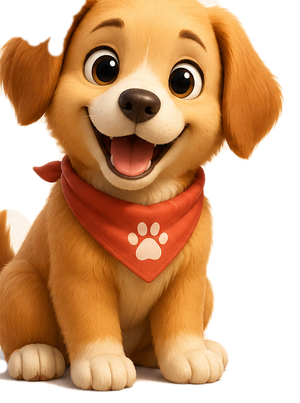
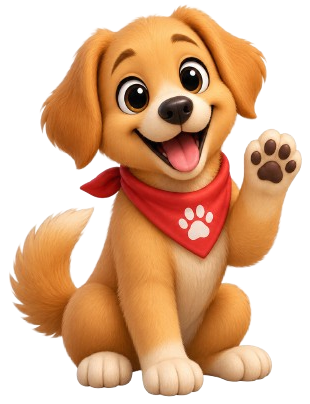
Fix kick-ball tracking and replace pet art with transparent Buddy/Mittens cutouts

diff --git a/src/games/KickBall/KickBallGame.tsx b/src/games/KickBall/KickBallGame.tsx
@@ -8,9 +8,18 @@ import { SoccerBall } from "../../assets/gameArt/GameArt";
 import "../games-common.css";
 import "./KickBallGame.css";
 
-const KICK_Y_THRESHOLD = 0.55; // upper half of frame = "leg raised"
 const KICK_TOLERANCE_X = 0.22;
 const KICK_COOLDOWN_MS = 700;
+// Kick detection is based on how far the leg point has risen within a
+// short rolling window, not on crossing some fixed absolute Y value.
+// An absolute threshold assumes the tracked landmark (ankle) always
+// rests near the bottom of frame — but MediaPipe sometimes falls back
+// to the knee (see MotionTrackingService), which rests much higher up,
+// and every user sits at a different distance from their camera. A
+// "did it move up fast enough" check works the same regardless of
+// which landmark or framing is in play.
+const RISE_WINDOW_MS = 350;
+const MIN_RISE = 0.07; // normalized units (~7% of frame height) within the window
 const GOAL_ZONES = [0.25, 0.5, 0.75];
 const GOAL_MESSAGES = ["GOAL! Amazing kick! ⚽", "Woohoo! Nice shot!", "You've got this!"];
 const MISS_MESSAGES = ["Just wide — try again!", "So close!", "Almost there!"];
@@ -35,7 +44,7 @@ export function KickBallGame({ frame, demoMode, durationSeconds, petId, onComple
   const [feedback, setFeedback] = useState<"goal" | "miss" | null>(null);
   const [ballPos, setBallPos] = useState({ x: 0.5, y: REST_Y });
   const [flying, setFlying] = useState(false);
-  const prevY = useRef<number | null>(null);
+  const history = useRef<{ y: number; t: number }[]>([]);
   const lastKickAt = useRef(0);
   const finishedRef = useRef(false);
   const flyingRef = useRef(false);
@@ -61,12 +70,20 @@ export function KickBallGame({ frame, demoMode, durationSeconds, petId, onComple
       setBallPos((p) => ({ x: p.x + (dribbleX - p.x) * 0.25, y: REST_Y }));
     }
 
-    const wasBelow = prevY.current !== null && prevY.current > KICK_Y_THRESHOLD;
-    const isAbove = ankle.y <= KICK_Y_THRESHOLD;
-    const cooledDown = Date.now() - lastKickAt.current > KICK_COOLDOWN_MS;
+    const now = Date.now();
+    history.current.push({ y: ankle.y, t: now });
+    // Keep only the recent window; a couple of extra entries past the
+    // cutoff are fine since we just need the oldest-in-window sample.
+    while (history.current.length > 1 && now - history.current[0].t > RISE_WINDOW_MS) {
+      history.current.shift();
+    }
+    const oldest = history.current[0];
+    const rise = oldest ? oldest.y - ankle.y : 0; // positive = moved up
+    const cooledDown = now - lastKickAt.current > KICK_COOLDOWN_MS;
 
-    if (wasBelow && isAbove && cooledDown && !flyingRef.current) {
-      lastKickAt.current = Date.now();
+    if (rise >= MIN_RISE && cooledDown && !flyingRef.current) {
+      history.current = [];
+      lastKickAt.current = now;
       const kickedFromX = ballPos.x;
       const scored = Math.abs(kickedFromX - goalX) <= KICK_TOLERANCE_X;
       setAttempts((a) => a + 1);
@@ -93,7 +110,6 @@ export function KickBallGame({ frame, demoMode, durationSeconds, petId, onComple
       }, FLIGHT_MS);
       setTimeout(() => setFeedback(null), 500);
     }
-    prevY.current = ankle.y;
     // eslint-disable-next-line react-hooks/exhaustive-deps
   }, [frame]);
 

diff --git a/src/App.css b/src/App.css
@@ -1,0 +1,184 @@
+.counter {
+  font-size: 16px;
+  padding: 5px 10px;
+  border-radius: 5px;
+  color: var(--accent);
+  background: var(--accent-bg);
+  border: 2px solid transparent;
+  transition: border-color 0.3s;
+  margin-bottom: 24px;
+
+  &:hover {
+    border-color: var(--accent-border);
+  }
+  &:focus-visible {
+    outline: 2px solid var(--accent);
+    outline-offset: 2px;
+  }
+}
+
+.hero {
+  position: relative;
+
+  .base,
+  .framework,
+  .vite {
+    inset-inline: 0;
+    margin: 0 auto;
+  }
+
+  .base {
+    width: 170px;
+    position: relative;
+    z-index: 0;
+  }
+
+  .framework,
+  .vite {
+    position: absolute;
+  }
+
+  .framework {
+    z-index: 1;
+    top: 34px;
+    height: 28px;
+    transform: perspective(2000px) rotateZ(300deg) rotateX(44deg) rotateY(39deg)
+      scale(1.4);
+  }
+
+  .vite {
+    z-index: 0;
+    top: 107px;
+    height: 26px;
+    width: auto;
+    transform: perspective(2000px) rotateZ(300deg) rotateX(40deg) rotateY(39deg)
+      scale(0.8);
+  }
+}
+
+#center {
+  display: flex;
+  flex-direction: column;
+  gap: 25px;
+  place-content: center;
+  place-items: center;
+  flex-grow: 1;
+
+  @media (max-width: 1024px) {
+    padding: 32px 20px 24px;
+    gap: 18px;
+  }
+}
+
+#next-steps {
+  display: flex;
+  border-top: 1px solid var(--border);
+  text-align: left;
+
+  & > div {
+    flex: 1 1 0;
+    padding: 32px;
+    @media (max-width: 1024px) {
+      padding: 24px 20px;
+    }
+  }
+
+  .icon {
+    margin-bottom: 16px;
+    width: 22px;
+    height: 22px;
+  }
+
+  @media (max-width: 1024px) {
+    flex-direction: column;
+    text-align: center;
+  }
+}
+
+#docs {
+  border-right: 1px solid var(--border);
+
+  @media (max-width: 1024px) {
+    border-right: none;
+    border-bottom: 1px solid var(--border);
+  }
+}
+
+#next-steps ul {
+  list-style: none;
+  padding: 0;
+  display: flex;
+  gap: 8px;
+  margin: 32px 0 0;
+
+  .logo {
+    height: 18px;
+  }
+
+  a {
+    color: var(--text-h);
+    font-size: 16px;
+    border-radius: 6px;
+    background: var(--social-bg);
+    display: flex;
+    padding: 6px 12px;
+    align-items: center;
+    gap: 8px;
+    text-decoration: none;
+    transition: box-shadow 0.3s;
+
+    &:hover {
+      box-shadow: var(--shadow);
+    }
+    .button-icon {
+      height: 18px;
+      width: 18px;
+    }
+  }
+
+  @media (max-width: 1024px) {
+    margin-top: 20px;
+    flex-wrap: wrap;
+    justify-content: center;
+
+    li {
+      flex: 1 1 calc(50% - 8px);
+    }
+
+    a {
+      width: 100%;
+      justify-content: center;
+      box-sizing: border-box;
+    }
+  }
+}
+
+#spacer {
+  height: 88px;
+  border-top: 1px solid var(--border);
+  @media (max-width: 1024px) {
+    height: 48px;
+  }
+}
+
+.ticks {
+  position: relative;
+  width: 100%;
+
+  &::before,
+  &::after {
+    content: '';
+    position: absolute;
+    top: -4.5px;
+    border: 5px solid transparent;
+  }
+
+  &::before {
+    left: 0;
+    border-left-color: var(--border);
+  }
+  &::after {
+    right: 0;
+    border-right-color: var(--border);
+  }
+}

diff --git a/src/index.css b/src/index.css
@@ -1,0 +1,111 @@
+:root {
+  --text: #6b6375;
+  --text-h: #08060d;
+  --bg: #fff;
+  --border: #e5e4e7;
+  --code-bg: #f4f3ec;
+  --accent: #aa3bff;
+  --accent-bg: rgba(170, 59, 255, 0.1);
+  --accent-border: rgba(170, 59, 255, 0.5);
+  --social-bg: rgba(244, 243, 236, 0.5);
+  --shadow:
+    rgba(0, 0, 0, 0.1) 0 10px 15px -3px, rgba(0, 0, 0, 0.05) 0 4px 6px -2px;
+
+  --sans: system-ui, 'Segoe UI', Roboto, sans-serif;
+  --heading: system-ui, 'Segoe UI', Roboto, sans-serif;
+  --mono: ui-monospace, Consolas, monospace;
+
+  font: 18px/145% var(--sans);
+  letter-spacing: 0.18px;
+  color-scheme: light dark;
+  color: var(--text);
+  background: var(--bg);
+  font-synthesis: none;
+  text-rendering: optimizeLegibility;
+  -webkit-font-smoothing: antialiased;
+  -moz-osx-font-smoothing: grayscale;
+
+  @media (max-width: 1024px) {
+    font-size: 16px;
+  }
+}
+
+@media (prefers-color-scheme: dark) {
+  :root {
+    --text: #9ca3af;
+    --text-h: #f3f4f6;
+    --bg: #16171d;
+    --border: #2e303a;
+    --code-bg: #1f2028;
+    --accent: #c084fc;
+    --accent-bg: rgba(192, 132, 252, 0.15);
+    --accent-border: rgba(192, 132, 252, 0.5);
+    --social-bg: rgba(47, 48, 58, 0.5);
+    --shadow:
+      rgba(0, 0, 0, 0.4) 0 10px 15px -3px, rgba(0, 0, 0, 0.25) 0 4px 6px -2px;
+  }
+
+  #social .button-icon {
+    filter: invert(1) brightness(2);
+  }
+}
+
+#root {
+  width: 1126px;
+  max-width: 100%;
+  margin: 0 auto;
+  text-align: center;
+  border-inline: 1px solid var(--border);
+  min-height: 100svh;
+  display: flex;
+  flex-direction: column;
+  box-sizing: border-box;
+}
+
+body {
+  margin: 0;
+}
+
+h1,
+h2 {
+  font-family: var(--heading);
+  font-weight: 500;
+  color: var(--text-h);
+}
+
+h1 {
+  font-size: 56px;
+  letter-spacing: -1.68px;
+  margin: 32px 0;
+  @media (max-width: 1024px) {
+    font-size: 36px;
+    margin: 20px 0;
+  }
+}
+h2 {
+  font-size: 24px;
+  line-height: 118%;
+  letter-spacing: -0.24px;
+  margin: 0 0 8px;
+  @media (max-width: 1024px) {
+    font-size: 20px;
+  }
+}
+p {
+  margin: 0;
+}
+
+code,
+.counter {
+  font-family: var(--mono);
+  display: inline-flex;
+  border-radius: 4px;
+  color: var(--text-h);
+}
+
+code {
+  font-size: 15px;
+  line-height: 135%;
+  padding: 4px 8px;
+  background: var(--code-bg);
+}

diff --git a/src/services/motionTracking/MotionTrackingService.ts b/src/services/motionTracking/MotionTrackingService.ts
@@ -147,8 +147,18 @@ export class MotionTrackingService {
       const result: PoseLandmarkerResult = this.poseLandmarker.detectForVideo(video, now);
       const pose = result.landmarks?.[0];
       if (pose) {
-        // 27 = left ankle, 28 = right ankle (MediaPipe Pose topology).
-        frame.ankles = [pose[27], pose[28]].filter(Boolean).map(mirrorX);
+        // Ankles (27/28) are frequently out of frame on a typical
+        // laptop webcam — MediaPipe still returns a landmark for them,
+        // but it's an unreliable extrapolated guess with a low
+        // `visibility` score once the actual body part is off-screen.
+        // Knees (25/26) are visible in far more real-world framings and
+        // still capture a "leg raised to kick" motion well, so prefer
+        // whichever pair is actually visible, ankles first.
+        const isVisible = (p: { visibility: number } | undefined) => p && p.visibility > 0.5;
+        const ankles = [pose[27], pose[28]].filter(isVisible);
+        const knees = [pose[25], pose[26]].filter(isVisible);
+        const legs = ankles.length ? ankles : knees;
+        frame.ankles = legs.map(mirrorX);
       }
     }
 
